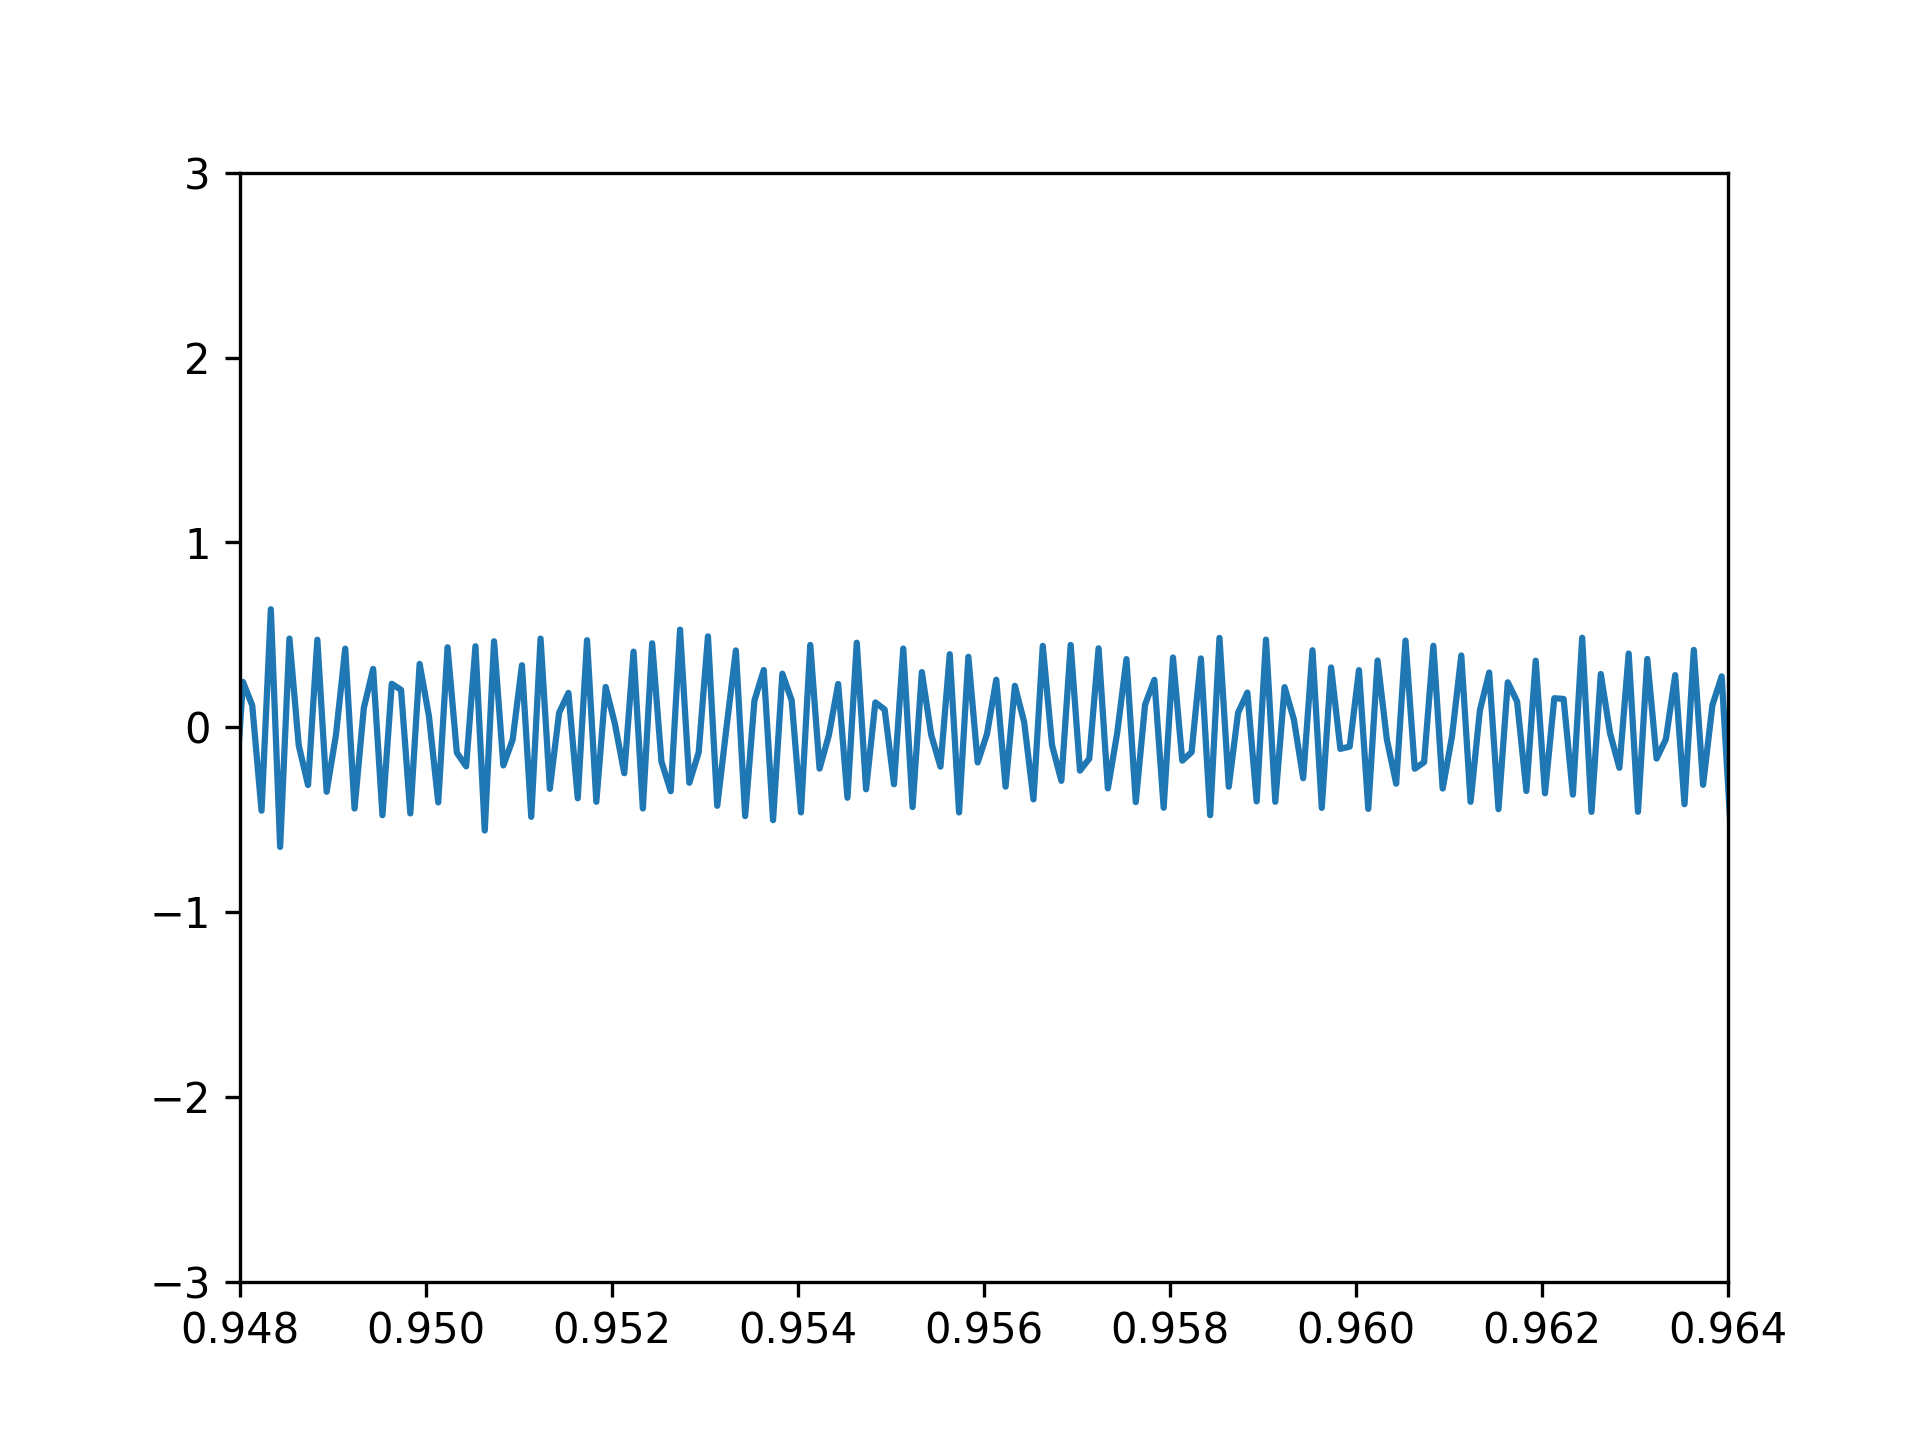
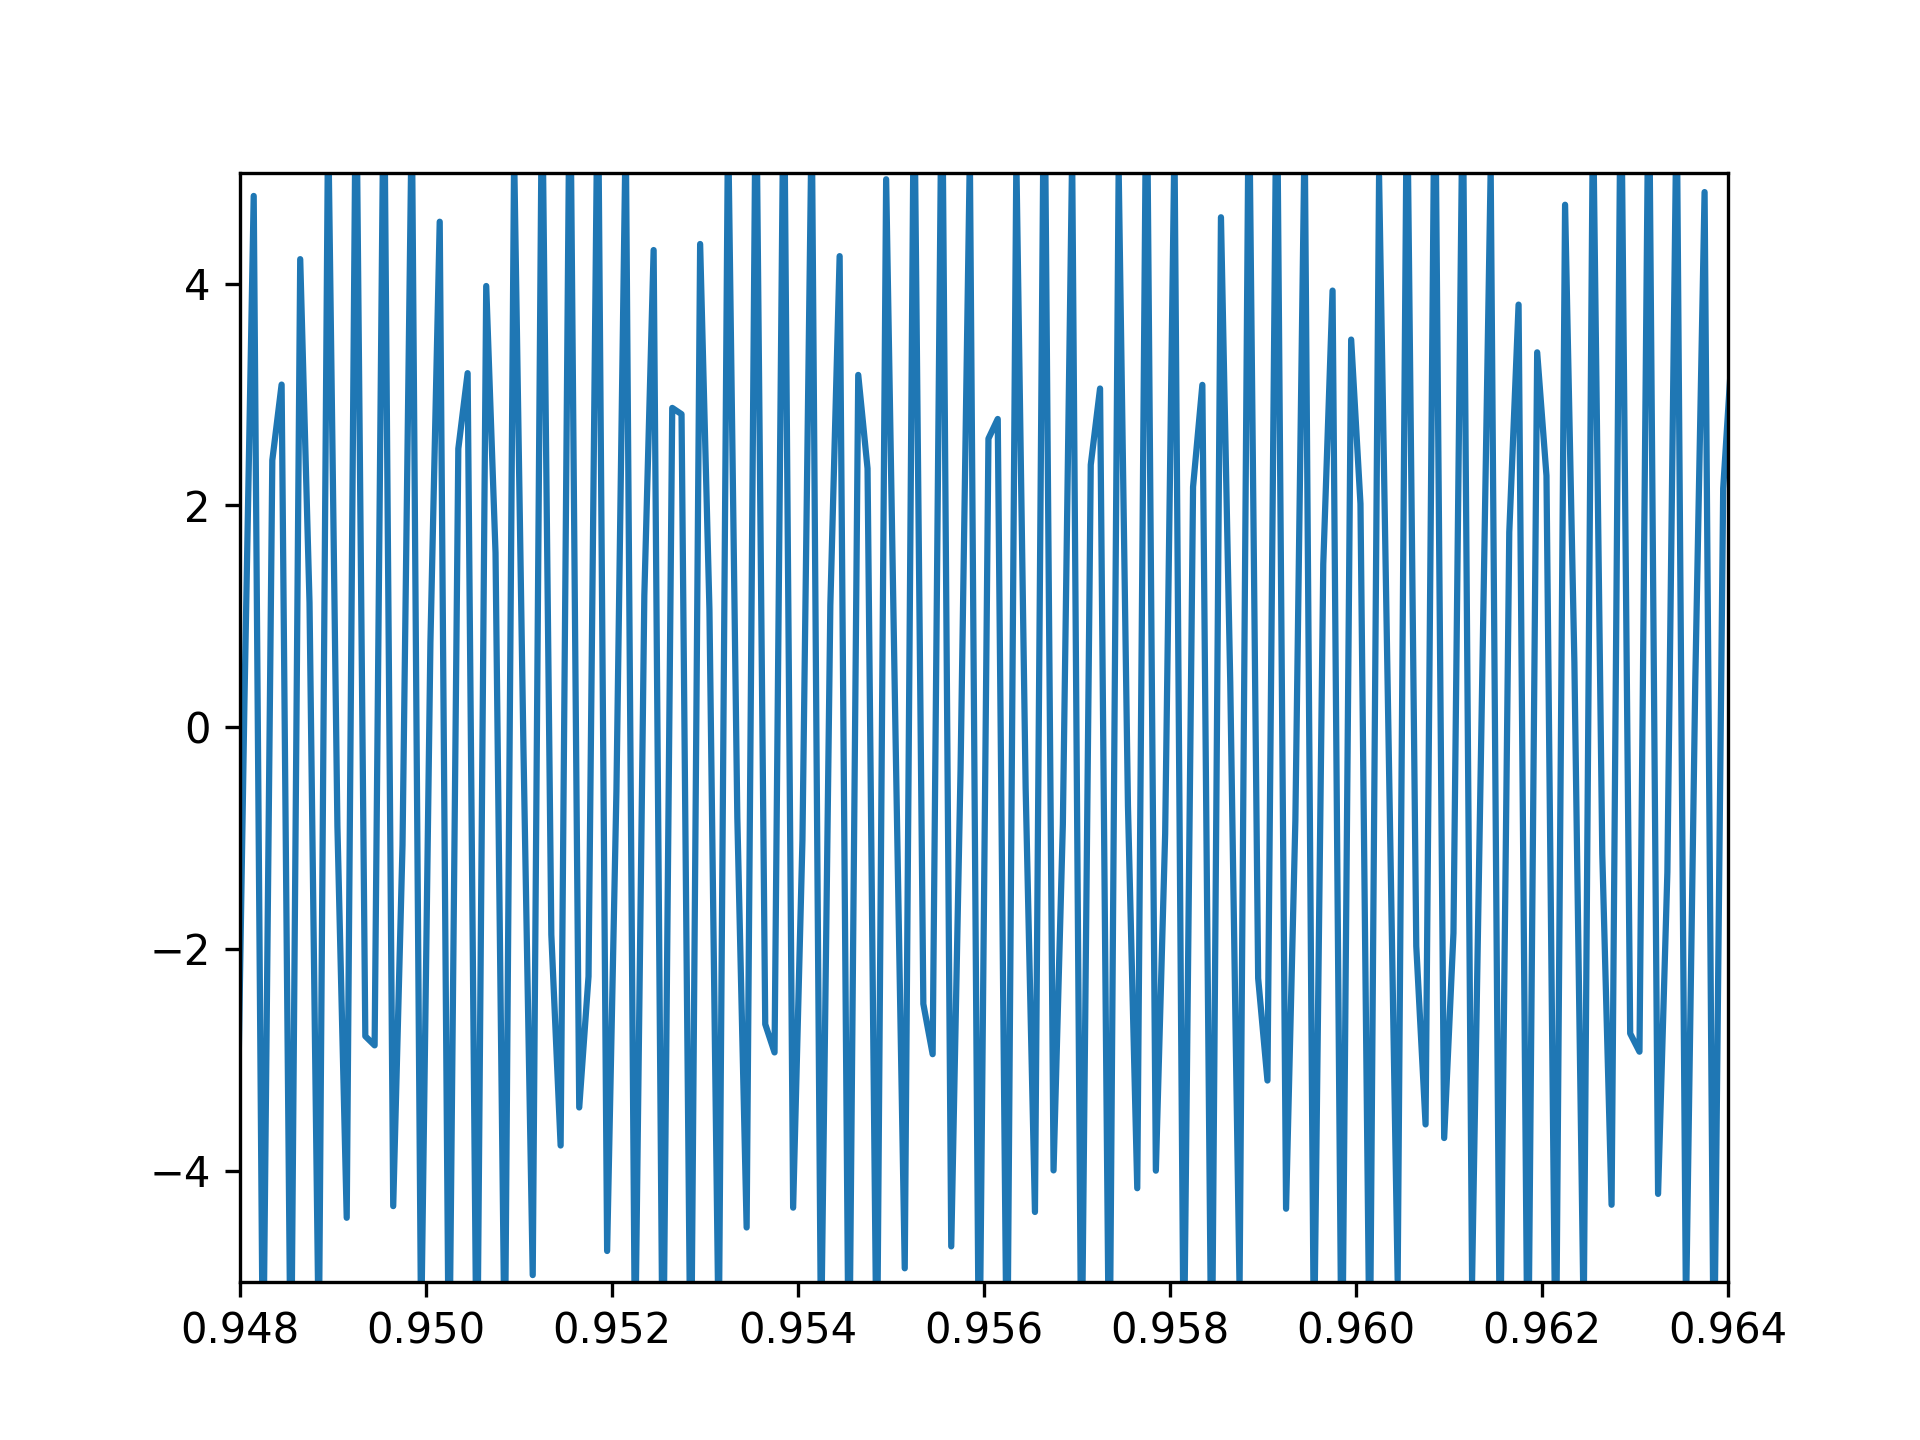
problems in inner raceway excitement generation function

Changed region(s): [[0.0938, 0.125, 0.9062, 0.9062]]

diff --git a/main.py b/main.py
@@ -27,34 +27,37 @@ def fft_trans(y, fs):
     return y_f, abs(y_ft[0:int(nfft / 2)])
 
 
-def healthy_bearing(savedata=False, fs=1e4, show=False, T=1):
+def healthy_bearing(savedata=False, fs=1e4, show=False, T=2):
     filename = 'NUP205'
     Ki, Ko = load_K(filename)
     Nb = 13
     mi = 5324.83e-9 * 7850
     mo = 7664.64e-9 * 7850
     Kbh = 1e7
-    Cbh = 1e3
+    Cbh = 1e2
     Fr = 500
     Rm = 19.5e-3
     Rr = 3.75e-3
     c = 1e-6
-    wi = 3000 / 60 * 2 * np.pi
+    wi = 1000 / 60 * 2 * np.pi
     wc = wi / 2 * (1 - Rr / Rm)
     fs = int(fs)
     t_span = np.linspace(0, T, T * fs + 1)
     DOF = 4
     y0 = np.zeros(DOF * 2)
-    # (t, y, Fr, Nb, mi, mo, wc, Ki, Ko, Kbh, Cbh, c)
+    # def ode_system(t, y,
+    #                Fr, Nb, mi, mo, wi, wc, Ki, Ko, Kbh, Cbh, c,
+    #                dC=0, phi_do=0, phi_oc=0,
+    #                dCi=0, phi_di=0, phi_oci=0):
     result = solve_ivp(BearingModel.ode_system, [0, T], y0, t_eval=t_span,
-                       args=(Fr, Nb, mi, mo, wc, Ki, Ko, Kbh, Cbh, c))
+                       args=(Fr, Nb, mi, mo, wi, wc, Ki, Ko, Kbh, Cbh, c, 0, 0, 0, 0, 0, 0))
     y = result.y
-    signal = y[7, :]
+    signal = y[5, :]
     signal = np.diff(signal) * fs
     t = np.linspace(0, T, len(signal))
     plt.figure(1)
     plt.plot(t, signal)
-    plt.ylim([-3, 3])
+    plt.ylim([-5, 5])
     plt.xlim([0.948, 0.964])
     plt.savefig(f"{filename}/{filename}_t_healthy.png", dpi=300)
     if not show:
@@ -85,10 +88,22 @@ def OuterDefect_bearing(savedata=False, fs=1e4, show=False, T=1):
     mi = 5324.83e-9 * 7850
     mo = 7664.64e-9 * 7850
     Kbh = 1e7
-    Cbh = 1e3
+    Cbh = 1e2
     Fr = 500
     Rm = 19.5e-3
     Rr = 3.75e-3
+    # filename = '6307'
+    # Ki, Ko = 1.89e10, 1.89e10
+    # Nb = 8
+    # mi = 1.2638
+    # mo = 12.638
+    # Kbh = 15e6
+    # Cbh = 2.2e3
+    # Fr = 2000
+    # Rm = 19.5e-3
+    # Rr = 3.75e-3
+    # Rm = 28.75e-3
+    # Rr = 7e-3
     c = 1e-6
     wi = 1000 / 60 * 2 * np.pi
     wc = wi / 2 * (1 - Rr / Rm)
@@ -113,14 +128,18 @@ def OuterDefect_bearing(savedata=False, fs=1e4, show=False, T=1):
     plt.figure(1)
     plt.plot(phi, Hdo)
     plt.savefig(f"{filename}/{filename}_Hdo.png", dpi=300)
+    plt.xlabel('phi')
     if not show:
         plt.close()
-
-    # def ode_system(t, y, Fr, Nb, mi, mo, wc, Ki, Ko, Kbh, Cbh, c, dC=0, phi_Do=0, phi_oc=0)
+    # def ode_system(t, y,
+    #                Fr, Nb, mi, mo, wi, wc, Ki, Ko, Kbh, Cbh, c,
+    #                dC=0, phi_do=0, phi_oc=0,
+    #                dCi=0, phi_di=0, phi_oci=0):
     result = solve_ivp(BearingModel.ode_system, [0, T], y0, t_eval=t_span,
-                       args=(Fr, Nb, mi, mo, wc, Ki, Ko, Kbh, Cbh, c, dC, phi_do, phi_oc), )
+                       args=(Fr, Nb, mi, mo, wi, wc, Ki, Ko, Kbh, Cbh, c,
+                             dC, phi_do, phi_oc))
     y = result.y
-    signal = y[7, :]
+    signal = y[5, :]
     signal = np.diff(signal) * fs
     t = np.linspace(0, T, len(signal))
     plt.figure(2)
@@ -163,7 +182,7 @@ def InnerDefect_bearing(savedata=False, fs=1e4, show=False, T=1):
     Rm = 19.5e-3
     Rr = 3.75e-3
     c = 1e-6
-    wi = 3000 / 60 * 2 * np.pi
+    wi = 1000 / 60 * 2 * np.pi
     wc = wi / 2 * (1 - Rr / Rm)
     fs = int(fs)
     t_span = np.linspace(0, T, T * fs + 1)
@@ -181,25 +200,28 @@ def InnerDefect_bearing(savedata=False, fs=1e4, show=False, T=1):
     phi_di = np.arcsin(B / 2 / Ri)
     phi_oci = 0
     # 角度-内滚道故障位移激励测试
-    # phi = np.linspace(0, 2 * np.pi, 1000)
-    # Hdo = BearingModel.Hdi_calculate(phi, dCi, phi_di, phi_oci)
-    # plt.figure(1)
-    # plt.plot(phi, Hdo)
-    # plt.savefig(f"{filename}/{filename}_Hdi.png", dpi=300)
-    # plt.close()
-
-    '''
-    def ode_system(t, y, Fr, Nb, mi, mo, wc, Ki, Ko, Kbh, Cbh, c,
-                   dC=0, phi_do=0, phi_oc=0,
-                   dCi=0, phi_di=0, wi=0, phi_oci=0)
-    '''
-
+    t_test = np.linspace(0, T, T * fs + 1)
+    phi_i = t_test * wi + phi_oci
+    phi_r = t_test * wc + 0
+    Hdi = np.zeros_like(phi_i)
+    for i in range(len(t_test)):
+        Hdi[i] = BearingModel.Hdi_calculate(np.mod(phi_r[i], 2 * np.pi), dCi, phi_di, np.mod(phi_i[i], 2 * np.pi))
+    plt.figure(1)
+    plt.plot(t_test, Hdi)
+    plt.savefig(f"{filename}/{filename}_Hdi.png", dpi=300)
+    plt.xlabel('t (s)')
+    if not show:
+        plt.close()
+    # def ode_system(t, y,
+    #                Fr, Nb, mi, mo, wi, wc, Ki, Ko, Kbh, Cbh, c,
+    #                dC=0, phi_do=0, phi_oc=0,
+    #                dCi=0, phi_di=0, phi_oci=0):
     result = solve_ivp(BearingModel.ode_system, [0, T], y0, t_eval=t_span,
-                       args=(Fr, Nb, mi, mo, wc, Ki, Ko, Kbh, Cbh, c,
+                       args=(Fr, Nb, mi, mo, wi, wc, Ki, Ko, Kbh, Cbh, c,
                              0, 0, 0,
-                             dCi, phi_di, wi, phi_oci))
+                             dCi, phi_di, phi_oci))
     y = result.y
-    signal = y[7, :]
+    signal = y[5, :]
     signal = np.diff(signal) * fs
     t = np.linspace(0, T, len(signal))
     plt.figure(2)
@@ -230,7 +252,15 @@ def InnerDefect_bearing(savedata=False, fs=1e4, show=False, T=1):
 
 if __name__ == '__main__':
     matplotlib.use('TkAgg')
-
-    # healthy_bearing(savedata=False, show=True, T=3)
-    OuterDefect_bearing(savedata=False, show=True, T=2, fs=1e4)
-    # InnerDefect_bearing(savedata=False, show=True, T=3)
+    '''
+    内圈转速: 1000 RPM
+    转频：16.67 Hz
+    变柔度频率: 87.5 Hz
+    外圈故障特征频率: 87.5 Hz
+    内圈故障特征频率: 129.17 Hz
+    滚动体故障特征频率： 41.73 Hz
+    保持架故障特征频率： 6.73 Hz
+    '''
+    # healthy_bearing(savedata=False, show=True, T=2, fs=1e4)
+    # OuterDefect_bearing(savedata=False, show=True, T=2, fs=1e5)
+    InnerDefect_bearing(savedata=False, show=True, T=2, fs=1e5)

diff --git a/BearingModel.py b/BearingModel.py
@@ -2,9 +2,10 @@ import numpy as np
 from numpy import sin, cos, pi
 
 
-def ode_system(t, y, Fr, Nb, mi, mo, wc, Ki, Ko, Kbh, Cbh, c,
+def ode_system(t, y,
+               Fr, Nb, mi, mo, wi, wc, Ki, Ko, Kbh, Cbh, c,
                dC=0, phi_do=0, phi_oc=0,
-               dCi=0, phi_di=0, wi=0, phi_oci=0):
+               dCi=0, phi_di=0, phi_oci=0):
     xi, yi, xo, yo, dxi, dyi, dxo, dyo = y
     phi_0 = wc * t
     phi = phi_0 + np.arange(Nb) / Nb * 2 * pi
@@ -18,6 +19,8 @@ def ode_system(t, y, Fr, Nb, mi, mo, wc, Ki, Ko, Kbh, Cbh, c,
     if dCi != 0 and phi_di != 0:
         phi_id = wi * t + phi_oci
         Hdi = Hdi_calculate(phi, dCi, phi_di, phi_id)
+    # 滚子故障位移激励控制
+
     # 非线性(故障)激励计算
     delta = delta_calculate(xi, yi, xo, yo, phi, c, Hdo, Hdi)
     fx, fy = contact_force(phi, delta, Ki, Ko)
@@ -29,17 +32,14 @@ def ode_system(t, y, Fr, Nb, mi, mo, wc, Ki, Ko, Kbh, Cbh, c,
 
 
 def contact_force(phi, delta, Ki, Ko):
-    fx = Ki * np.sum(delta ** (10 / 9) * np.cos(phi))
-    fy = Ki * np.sum(delta ** (10 / 9) * np.sin(phi))
+    fx = Ki * np.sum(delta ** (10 / 9) @ np.cos(phi))
+    fy = Ki * np.sum(delta ** (10 / 9) @ np.sin(phi))
     return fx, fy
 
 
 def delta_calculate(xi, yi, xo, yo, phi, c, Hdo, Hdi):
-    delta = (xi - xo) * cos(phi) + (yi - yo) * sin(phi) - c - Hdo - Hdi
+    delta = (xi - xo) * cos(phi) + (yi - yo) * sin(phi) - c / 2 - Hdo - Hdi
     delta = np.maximum(delta, 0)
-    # delta_0 = (xi - xo) * cos(phi) + (yi - yo) * sin(phi) - c
-    # delta_0 = np.maximum(delta_0, 0)
-    # print(delta_0,'\n',Hdo,'\n')
     return delta
 
 
@@ -54,9 +54,9 @@ def Hdo_calculate(phi, dC, phi_do, phi_oc=0):
 def Hdi_calculate(phi, dCi, phi_di, phi_id):
     # 向量操作优化
     Hdi = np.zeros_like(phi)
-    phi_i = np.mod(phi_id, 2 * pi)
+    phi_i = np.mod(phi_id, 2 * pi)  # 内圈故障中心角度位置
     mask = (np.abs(phi - phi_i) <= phi_di)
-    Hdi[mask] = dCi * np.cos((phi[mask]) * np.pi / (2 * phi_di))
+    Hdi[mask] = dCi * np.cos((phi[mask] - phi_i) * np.pi / (2 * phi_di))
     return Hdi
 
 # 原版

diff --git a/README.md b/README.md
@@ -19,6 +19,12 @@ _____
 <details>
 <summary>更新日志</summary>
 
+2025年8月25日
+
+_____
+
+内圈激励函数存在问题，当内圈故障位置和滚子位置分别位于2Π两侧时，内圈激励不会被正确生成。
+
 2025年8月日
 
 _____
